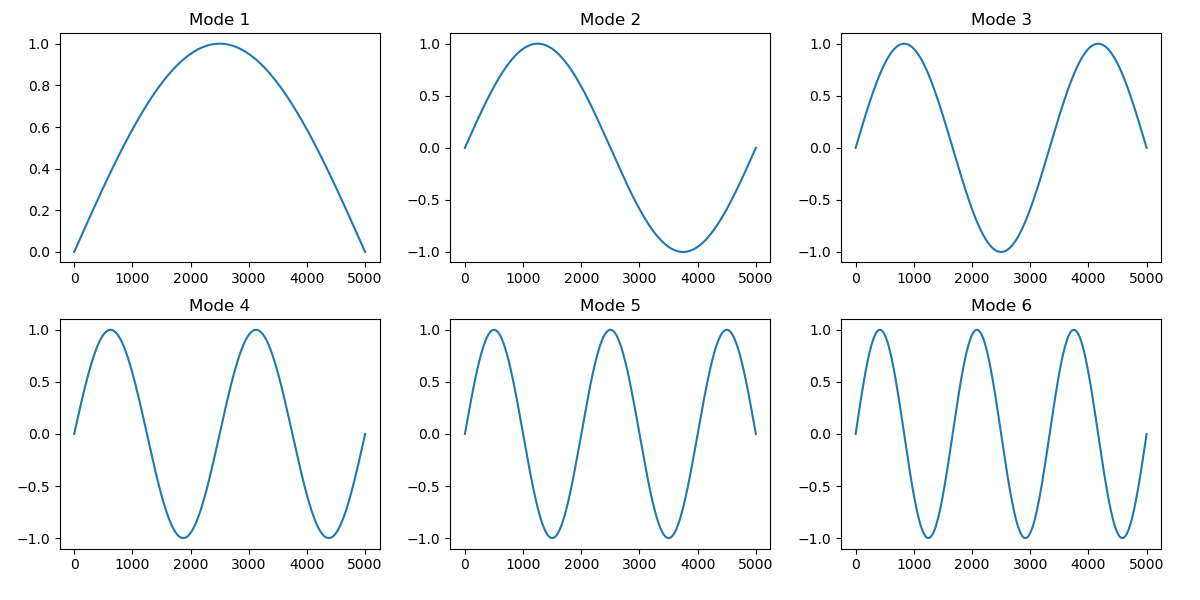
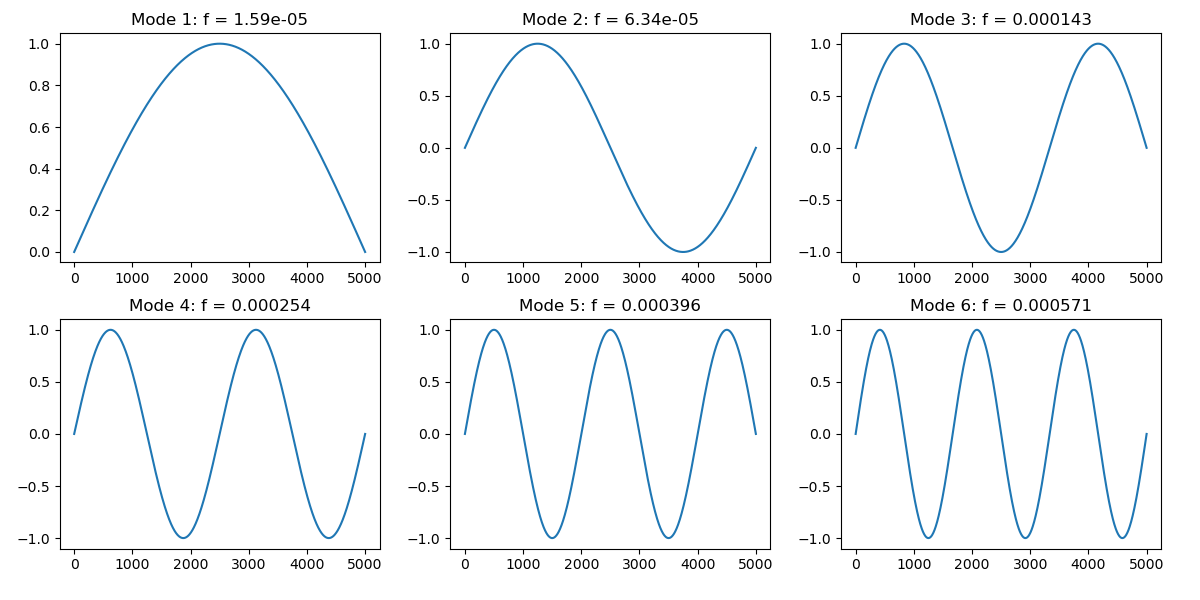
added convergence plot, half finished

diff --git a/part_3/FEM.py b/part_3/FEM.py
@@ -10,6 +10,7 @@ import matplotlib.pyplot as plt
 import scipy
 from matplotlib.animation import FuncAnimation
 from BeamMatrices import BeamMatricesJacket
+from analytical import *
 
 class ContinousBeam(object):
 
@@ -17,16 +18,17 @@ class ContinousBeam(object):
 
     def __init__(self):
         """Sets up basic parameters and matrices"""
-        
+        # analytical solution
+        self.analytical_omega = wn
 
         # Input parameters
         self.A = 0.2
-        self.rho_cable = 7850*self.A
+        self.rho_cable = 7850
 
         # Cable
                          # [kg/m]
-        self.EI_pipe = 1e14                 # [N.m2]
-        self.EA_pipe = 0                   # neglecting elongation
+        self.EI_pipe = 1e8                 # [N.m2]
+        self.EA_pipe = 0                   # neglecting elongatio
         #EA_pipe = 210000000 * A      # [N]
         self.top_cable = 0                 #  [m]
         self.base_cable = 5000             # [m]
@@ -42,31 +44,36 @@ class ContinousBeam(object):
         self.nT = len(self.T)
 
         # Define node coordinates
-        self.N_nodes = 41
+        self.N_nodes = 100
         self.NodeCoord = np.zeros((self.N_nodes, 2))
         self.NodeCoord[:, 0] = np.linspace(self.top_cable, self.base_cable, self.N_nodes)
 
         # assign DOF's to nodes
         self.nDof = 3*self.N_nodes              # 3 Degrees of freedom per node
+    
+        # Boundary conditions
+        # describe which DOF's are free and which are prescribed through the boundary conditions          # prescribed DOFs
+        self.prescribed_dofs = np.array([0,  1, self.nDof-3, self.nDof-2])
+        self.free_dofs = np.arange(0, self.nDof)       #  Initially set all DOF's as free DOf's
+        self.free_dofs = np.delete(self.free_dofs, self.prescribed_dofs)  # remove the fixed DOFs from the free DOFs array
 
         # Modal analysis
         self.plot_n_modes = 5
         self.modal_damping_ratio = 0.05
 
         # Numerical parameters
-        self.n_modes = 15
+        self.max_modes = self.N_nodes*3 - len(self.prescribed_dofs)
+        self.n_modes = self.max_modes
         self.q0 = np.zeros(2*self.n_modes)
-
-        # ---------------------------- Boundary Conditions ---------------------------#
-        # describe which DOF's are free and which are prescribed through the boundary conditions          # prescribed DOFs
-        self.prescribed_dofs = np.array([0,  1, self.nDof-3, self.nDof-2])
-        self.free_dofs = np.arange(0, self.nDof)       #  Initially set all DOF's as free DOf's
-        self.free_dofs = np.delete(self.free_dofs, self.prescribed_dofs)  # remove the fixed DOFs from the free DOFs array
+        
+        self.setup_system()
     
+    def setup_system(self):
         self.discretize_beam()
         self.setup_system_matrices()
         self.apply_boundary_conditions()
         self.setup_modal_matrix()
+        #self.setup_decoupled_system()
     
     def append_equation_to_latex(self, eq, fname="eoms_latex.txt"):
         with open(fname, "a") as f:
@@ -77,7 +84,7 @@ class ContinousBeam(object):
         #             NodeLeft    NodeRight          m         EA        EI
         self.N_elements = self.N_nodes - 1
         self.dx = (self.base_cable-self.top_cable)/self.N_elements
-        self.m_pipe = self.rho_cable*self.dx
+        self.m_pipe = self.rho_cable*self.dx*self.A
         self.Elements = np.zeros((self.N_elements, 5), dtype=np.int64)
         for idx in range(self.N_elements):
             self.Elements[idx, 0] = idx
@@ -151,7 +158,6 @@ class ContinousBeam(object):
         plt.spy(self.K)
         plt.title("Stiffness matrix")
         plt.show()
-
 
     
     def apply_boundary_conditions(self):
@@ -235,29 +241,68 @@ class ContinousBeam(object):
                 c = 'black'
                 plt.plot([DisplacedNode[0][NodeLeft], DisplacedNode[0][NodeRight]], 
                             [DisplacedNode[1][NodeLeft], DisplacedNode[1][NodeRight]], c=c)
-            plt.title("Mode "+str(iMode-self.first_mode+1)+": f = "+str(np.round(self.eigen_frequencies[iMode], 3))+" Hz")
+            
+            mode_str = str(iMode-self.first_mode+1)
+            title = f"Mode {mode_str}: f = {self.eigen_frequencies[iMode]:.3} Hz"
+            plt.title(title)
 
         # automatically fix subplot spacing
         plt.tight_layout()
         plt.show()
+    
+    def plot_single_mode(self, iMode):
+        if iMode < self.first_mode and iMode >= 0:
+            print("WARNING -- This mode will not show anything") 
+        
+        plt.figure()
+        shape = self.modal_shape[:, iMode]
 
-    def get_decoupled_system(self):
+        # Scale the mode such that maximum deformation is 10
+        MaxTranslationx = np.max(np.abs(shape[0::3]))
+
+        MaxTranslationy = np.max(np.abs(shape[1::3]))
+        if MaxTranslationx != 0:
+             shape[0::3] = shape[0::3]/MaxTranslationx*300
+        shape[1::3] = shape[1::3]/MaxTranslationy*300
+
+        # Get the deformed shape
+        DisplacedNode = ([i[0] for i in self.NodeCoord] + shape[0::3], [i[1] for i in self.NodeCoord] + shape[1::3])
+        for element in self.Elements:
+            NodeLeft = element[0]-1
+            NodeRight = element[1]-1
+            m = element[2]
+            EA = element[3]
+            EI = element[4]
+            c = 'black'
+            plt.plot([DisplacedNode[0][NodeLeft], DisplacedNode[0][NodeRight]], 
+                        [DisplacedNode[1][NodeLeft], DisplacedNode[1][NodeRight]], c=c)
+        if iMode >= 0:
+            mode_str = str(iMode - self.first_mode + 1)
+        else:
+            mode_str = str(len(shape) + iMode + 1)
+
+        title = f"Mode {mode_str}: f = {self.eigen_frequencies[iMode]:.3} Hz"
+        plt.title(title)
+
+    def setup_decoupled_system(self):
         # Compute Modal quantities and decouple the system
-        contributing_modes = slice(self.first_mode, self.n_modes+self.first_mode)
-        self.PHI = self.eigen_vectors[:,contributing_modes]
+        self.contributing_modes = slice(self.first_mode, min(self.n_modes+self.first_mode, self.max_modes))
+        self.PHI = self.eigen_vectors[:,self.contributing_modes]
+       
 
-        self.Mm = np.zeros(self.n_modes)
-        self.Km = np.zeros(self.n_modes)
-        self.Cm = np.zeros(self.n_modes)
+        available_modes = self.contributing_modes.stop - self.contributing_modes.start
+        self.Mm = np.zeros(available_modes)
+        self.Km = np.zeros(available_modes)
+        self.Cm = np.zeros(available_modes)
 
         # Compute your "self.n_modes" entries of the modal mass, stiffness and damping
-        for i in range(self.n_modes):
+        for i in range(available_modes):
             self.Mm[i] = self.PHI[:, i].T  @ self.M_FF @ self.PHI[:, i]
             self.Km[i] = self.PHI[:, i].T  @ self.K_FF @ self.PHI[:, i]
             self.Cm[i] = 2*self.modal_damping_ratio*np.sqrt(self.Mm[i]*self.Km[i])
-            print(f"Computing Mode: {i+1} \nMm = {Mm[i]:.3f}, Km = {Km[i]:.3f}, Cm = {Cm[i]:.3f}")
+            print(f"Computing Mode: {i+1} \nMm = {self.Mm[i]:.3f}, Km = {self.Km[i]:.3f}, Cm = {self.Cm[i]:.3f}")
 
-    def get_forcing(self):
+    def get_forcing(self, t):
         c_F = 20 #kN
         F = np.zeros(len(self.free_dofs))
         f = 1000* np.sin(np.arange(self.top_cable+self.dx, self.base_cable, self.dx)*np.pi/self.base_cable)
@@ -275,75 +320,32 @@ class ContinousBeam(object):
 
     # update function
     def qdot(t,q):
-        Um = q[0:nMode]                                 # first entries are the displacemnt
-        Vm = q[nMode:2*nMode]                           # second half is the velocity
+        Um = q[0:self.n_modes]                                 # first entries are the displacemnt
+        Vm = q[self.n_modes:2*self.n_modes]                           # second half is the velocity
         Am = ( self.get_forcing(t) - (self.Km * Um + self.Cm * Vm) ) / self.Mm      # compute the accelerations
         return np.append(Vm,Am)                         # return the velocity and accelerations
 
     # solving in time domain
     def get_solution_FEM(self):
-        self.solution = scipy.integrate.solve_ivp(fun=qdot,y0=self.q0,t_span=[self.T[0],self.T[-1]])
+        self.solution = scipy.integrate.solve_ivp(fun=self.qdot,y0=self.q0,t_span=[self.T[0],self.T[-1]])
         print('Solving done')
     
     
+    def plot_frequency_convergence(self, dx_range_start, dx_range_stop):
+        mode_list = [1,2,3,4,5]
+        analytical_freq = [self.analytical_omega(n)/2/np.pi for n in mode_list]
+    
+        # 20 - 50
+        dx_list = np.arange(dx_range_start, dx_range_stop)
+        errors = np.zeros((len(dx_list), len(analytical_freq)))
+        for j,dx in enumerate(dx_list):
+            self.N_nodes = int((self.base_cable-self.top_cable)/dx) + 1
+            self.setup_system()
+            numerical_freq = np.array([self.eigen_frequencies[i-1+self.first_mode] for i in mode_list])
+            errors[j] = np.abs(analytical_freq - numerical_freq)
+
+        self.convergence_errors = errors
+        
+        return self.convergence_errors
 
 
-#plt.figure()
-#plt.plot(np.linspace(0,1e3, len(q.y[0])),q.y[1])
-#
-#lent = len(q.t)
-#
-## back to dof
-## Show the result on the original coordinates
-#U_F = np.zeros((lent,len(PHI[:,0])))
-#for iMode in range(nMode):
-    #for it in range(lent):
-        #U_F[it,:] += PHI[:, iMode] * q.y[iMode][it]
-#print("Back to original DoF's done")
-#
-#
-#mask2 = np.nonzero(np.arange(0, len(U_F[0, :])-1, 1) % 3)
-#
-## xiu = U_F[1600, mask2]
-## print(xiu)
-## print(q.t[1600])
-## xiu = xiu[0, 1::2]
-## plt.figure()
-#
-## plt.plot(np.arange(len(xiu)), xiu)
-#
-#U = np.zeros((len(q.t), len(NodeCoord[1:-1].flatten())))
-#x = np.arange(0, len(U[0]), 2)
-#y = np.arange(1, len(U[1]), 2)
-#Ux = np.zeros((len(q.t), len(U[0])//2))
-#Uy = np.zeros((len(q.t),len(U[0])//2)) 
-#for t in range(len(q.t)):
-    #U[t,:] = U_F[t,mask2]+NodeCoord[1:-1].flatten()
-    ##print(U[t, :])
-    #Ux[t] = U[t, 0::2]
-    #Uy[t] = U[t, 1::2]
-#
-#
-## add BC:
-#BC1x = np.ones(len(q.t))*Top_cable
-#BC1y = np.zeros(len(q.t))
-#BC2x = np.ones(len(q.t))*Base_cable
-#BC2y = np.zeros(len(q.t))
-#Ux = np.insert(Ux, 0, BC1x, axis=1)
-#Uy = np.insert(Uy, 0, BC1y, axis=1)
-#Ux = np.insert(Ux, N_nodes-1, BC2x, axis=1)
-#Uy = np.insert(Uy, N_nodes-1, BC2y, axis=1)
-#plt.figure()
-#plt.plot(Ux[20], Uy[20])
-#
-#fig = plt.figure()
-#
-#def animate(i):
-    #plt.cla()
-    #plt.title(f"Time is {q.t[i*100]:.1f} s")
-    #plt.plot(Ux[i*100], Uy[i*100])
-    #plt.ylim(-1, 1)
-#
-#anim = FuncAnimation(fig, animate, frames=len(q.t)//100,interval=1, repeat=False)
-#
-plt.show()

diff --git a/part_3/analytical.py b/part_3/analytical.py
@@ -2,7 +2,7 @@ import matplotlib.pyplot as plt
 import numpy as np
 
 L = 5000
-EI = 10**9
+EI = 1e8
 rho = 7850
 A = .2
 
@@ -19,7 +19,7 @@ def plot_anal_sol():
     n = 1
     for a in ax.flatten():
         a.plot(x, np.sin(b(n)*x))
-        a.set_title(f"Mode {n}")
+        a.set_title(f"Mode {n}: f = {wn(n)/2/np.pi:.3}")
         n+=1
     
     plt.savefig("analytical_modal_response.png")
